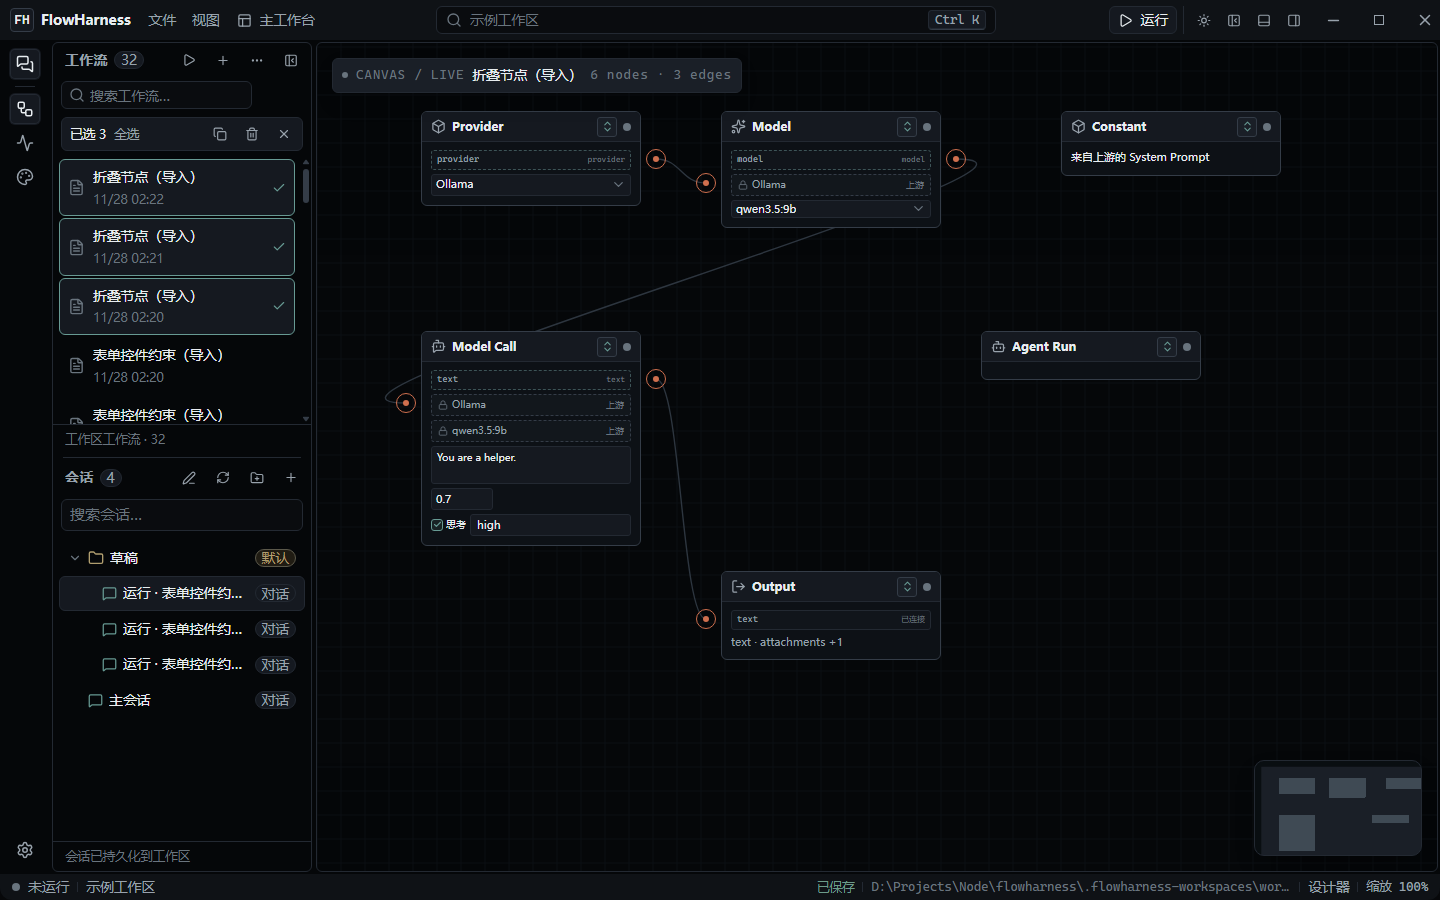
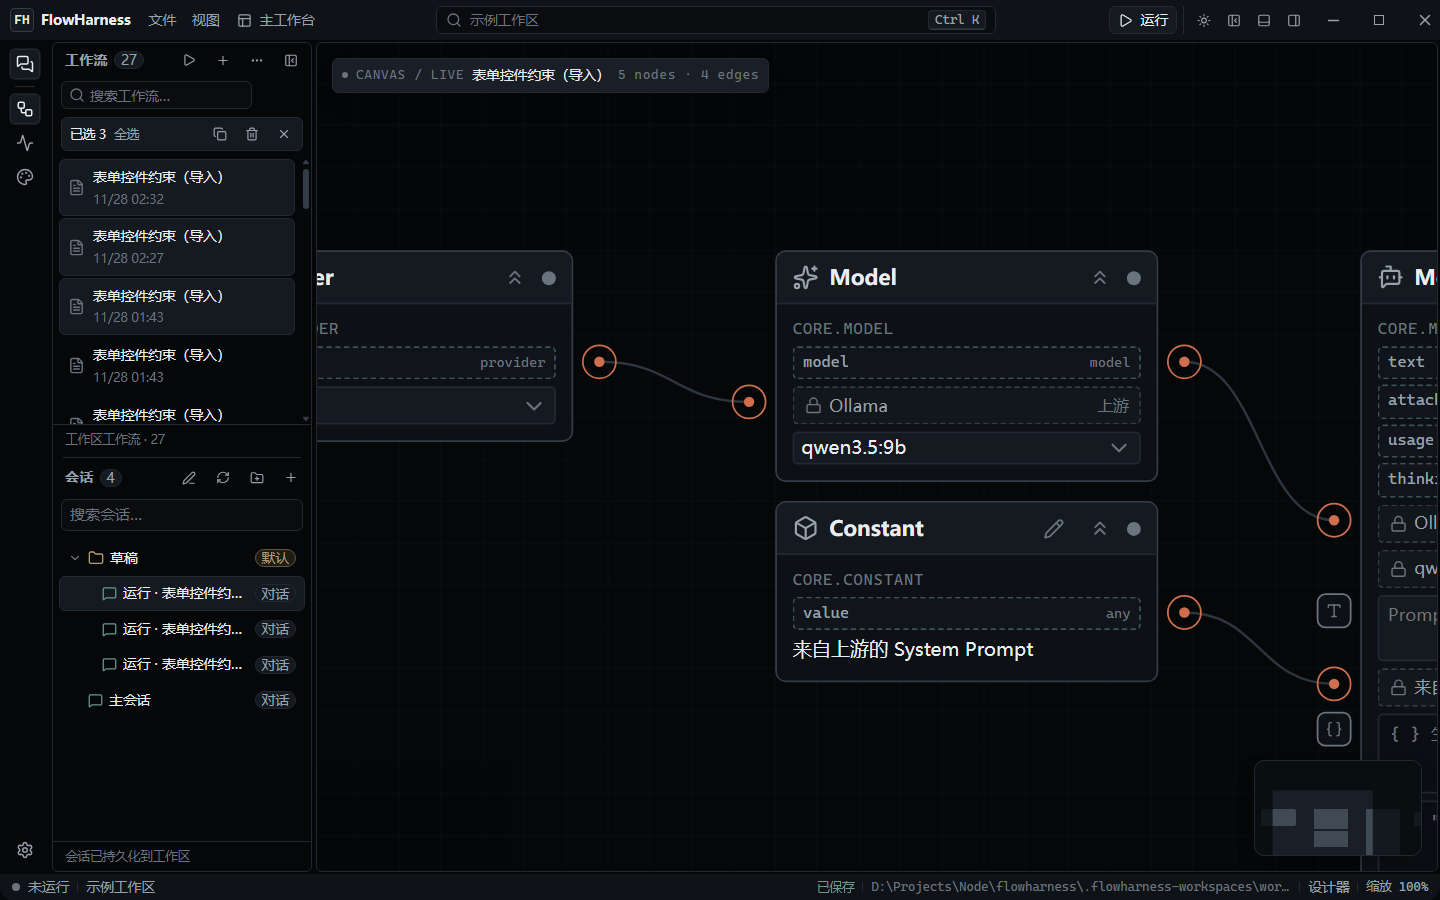
refine(designer): reuse the open-row highlight for workflow multi-select

diff --git a/apps/desktop/src/renderer/src/shell/navigation/DocumentNavigation.tsx b/apps/desktop/src/renderer/src/shell/navigation/DocumentNavigation.tsx
@@ -7,7 +7,7 @@ import {
     useState,
     type ReactElement,
 } from "react";
-import { Check, Copy, FileText, Play, Plus, Search, Trash2, X } from "lucide-react";
+import { Copy, FileText, Play, Plus, Search, Trash2, X } from "lucide-react";
 import type { WorkbenchNavigationProps } from "../../workbench/types";
 import {
     Badge,
@@ -70,7 +70,8 @@ export function DocumentNavigation({
     onExportDocument,
 }: WorkbenchNavigationProps): ReactElement {
     const [query, setQuery] = useState("");
-    const [selectedIds, setSelectedIds] = useState<ReadonlySet<string>>(
+    // 额外的多选项；打开中的工作流始终属于选择集合，不进入这个集合。
+    const [extraIds, setExtraIds] = useState<ReadonlySet<string>>(
         () => new Set(),
     );
     const anchorIdRef = useRef<string | null>(null);
@@ -89,28 +90,38 @@ export function DocumentNavigation({
         );
     }, [documents, query]);
 
-    // 文档被删除 / 外部刷新后丢弃失效的选中项。
+    // 文档被删除 / 外部刷新后丢弃失效的选中项；打开中的工作流不重复计入。
     useEffect(() => {
-        setSelectedIds((current) =>
-            pruneSelection(
+        setExtraIds((current) => {
+            const pruned = pruneSelection(
                 current,
                 documents.map((document) => document.id),
-            ),
-        );
-    }, [documents]);
+            );
+            const next = new Set(pruned);
+            if (activeDocumentId !== null) next.delete(activeDocumentId);
+            return next.size === current.size ? current : next;
+        });
+    }, [documents, activeDocumentId]);
 
     const clearSelection = useCallback((): void => {
-        setSelectedIds(new Set());
+        setExtraIds(new Set());
         anchorIdRef.current = null;
     }, []);
+
+    /** 高亮即选中：打开中的工作流 + 额外多选项。 */
+    const selectionIds = useMemo(() => {
+        const next = new Set(extraIds);
+        if (activeDocumentId !== null) next.add(activeDocumentId);
+        return next;
+    }, [extraIds, activeDocumentId]);
 
     const selectedDocuments = useMemo(
         () =>
             orderedSelection(
-                selectedIds,
+                selectionIds,
                 documents.map((document) => document.id),
             ).map((id) => documents.find((document) => document.id === id)),
-        [documents, selectedIds],
+        [documents, selectionIds],
     );
 
     const selectionCount = selectedDocuments.length;
@@ -139,12 +150,15 @@ export function DocumentNavigation({
         if (event.shiftKey) {
             event.preventDefault();
             const ordered = filtered.map((item) => item.id);
-            const next = selectRange(ordered, anchorIdRef.current, document.id);
+            const range = selectRange(ordered, anchorIdRef.current, document.id);
             if (anchorIdRef.current === null) anchorIdRef.current = document.id;
-            setSelectedIds((current) =>
+            // 打开中的工作流由 selectionIds 隐式包含，不进入额外集合。
+            const extras = new Set(range);
+            if (activeDocumentId !== null) extras.delete(activeDocumentId);
+            setExtraIds((current) =>
                 event.ctrlKey || event.metaKey
-                    ? new Set([...current, ...next])
-                    : next,
+                    ? new Set([...current, ...extras])
+                    : extras,
             );
             return;
         }
@@ -152,7 +166,9 @@ export function DocumentNavigation({
         if (event.ctrlKey || event.metaKey) {
             event.preventDefault();
             anchorIdRef.current = document.id;
-            setSelectedIds((current) => toggleSelected(current, document.id));
+            // 打开中的工作流已经是选中状态，再次切换没有意义。
+            if (document.id === activeDocumentId) return;
+            setExtraIds((current) => toggleSelected(current, document.id));
             return;
         }
 
@@ -232,7 +248,7 @@ export function DocumentNavigation({
                     </div>
                 </div>
 
-                {selectionCount > 0 ? (
+                {selectionCount > 1 ? (
                     <div
                         className={styles.selectionBar}
                         role="toolbar"
@@ -246,8 +262,14 @@ export function DocumentNavigation({
                             className={styles.selectionAction}
                             disabled={busy || filtered.length === 0}
                             onClick={() => {
-                                setSelectedIds(
-                                    new Set(filtered.map((item) => item.id)),
+                                setExtraIds(
+                                    new Set(
+                                        filtered
+                                            .map((item) => item.id)
+                                            .filter(
+                                                (id) => id !== activeDocumentId,
+                                            ),
+                                    ),
                                 );
                             }}
                         >
@@ -294,7 +316,7 @@ export function DocumentNavigation({
                     ) : (
                         filtered.map((document) => {
                             const multiSelected =
-                                selectedIds.has(document.id) &&
+                                selectionIds.has(document.id) &&
                                 selectionCount > 1;
                             const actions = multiSelected
                                 ? buildWorkflowBatchActions({
@@ -330,7 +352,7 @@ export function DocumentNavigation({
                                             type="button"
                                             data-document-id={document.id}
                                             data-selected={
-                                                selectedIds.has(document.id) ||
+                                                selectionIds.has(document.id) ||
                                                 undefined
                                             }
                                             aria-current={
@@ -341,11 +363,8 @@ export function DocumentNavigation({
                                             title="Ctrl / Shift 点击可多选"
                                             className={cx(
                                                 styles.item,
-                                                document.id ===
-                                                    activeDocumentId &&
+                                                selectionIds.has(document.id) &&
                                                     styles.active,
-                                                selectedIds.has(document.id) &&
-                                                    styles.itemSelected,
                                             )}
                                             onClick={(event) =>
                                                 handleItemClick(event, document)
@@ -366,13 +385,6 @@ export function DocumentNavigation({
                                                     )}
                                                 </span>
                                             </span>
-                                            {selectedIds.has(document.id) ? (
-                                                <Check
-                                                    size={14}
-                                                    className={styles.selectedCheck}
-                                                    aria-hidden="true"
-                                                />
-                                            ) : null}
                                         </button>
                                     </ContextMenuTrigger>
                                     <ContextMenuContent>

diff --git a/apps/desktop/src/renderer/src/canvas/view/NodeVisual.tsx b/apps/desktop/src/renderer/src/canvas/view/NodeVisual.tsx
@@ -4,8 +4,8 @@ import {
     BotMessageSquare,
     Box,
     Check,
-    ChevronsDownUp,
-    ChevronsUpDown,
+    ChevronsDown,
+    ChevronsUp,
     GitBranch,
     LogIn,
     LogOut,
@@ -198,9 +198,9 @@ export function NodeVisual({
                         onClick={() => onToggleCollapsed(!collapsed)}
                     >
                         {collapsed ? (
-                            <ChevronsUpDown size={13} aria-hidden="true" />
+                            <ChevronsDown size={13} aria-hidden="true" />
                         ) : (
-                            <ChevronsDownUp size={13} aria-hidden="true" />
+                            <ChevronsUp size={13} aria-hidden="true" />
                         )}
                     </button>
                 )}

diff --git a/apps/desktop/src/renderer/src/shell/navigation/DocumentNavigation.module.css b/apps/desktop/src/renderer/src/shell/navigation/DocumentNavigation.module.css
@@ -63,16 +63,6 @@
   border-color: var(--fh-border);
 }
 
-.itemSelected {
-  border-color: var(--fh-accent);
-  background: var(--fh-surface-raised);
-}
-
-.selectedCheck {
-  flex: none;
-  color: var(--fh-accent);
-}
-
 .selectionBar {
   display: flex;
   flex: none;
